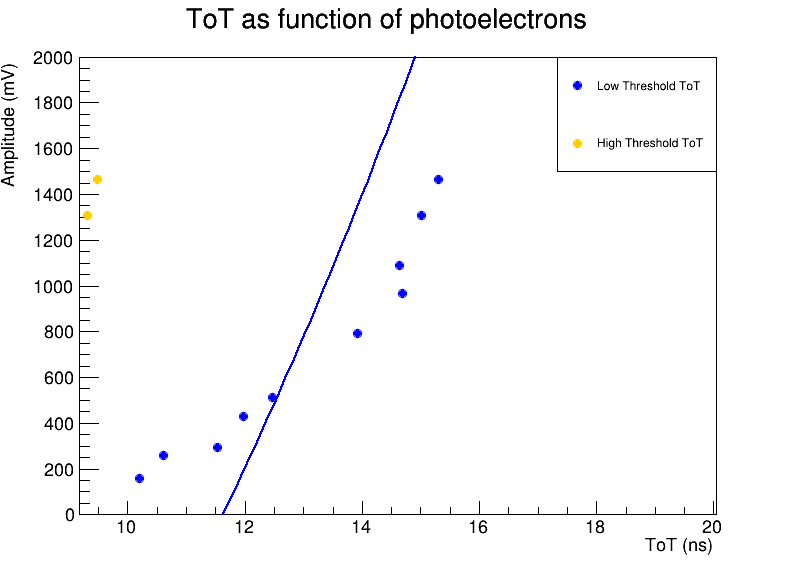
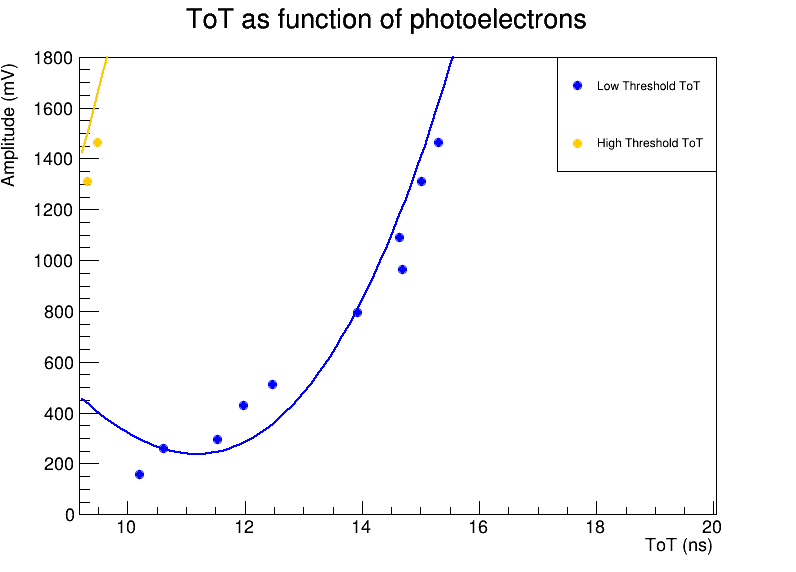
new commit

diff --git a/time_distribution_graph.C b/time_distribution_graph.C
@@ -255,7 +255,7 @@ int main() {
     gr_low->SetTitle("ToT as function of photoelectrons ;ToT (ns);Amplitude (mV)");
     gr_low->SetMarkerStyle(20); // Imposta lo stile dei punti
     gr_low->SetMarkerColor(kBlue);
-    gr_low->GetYaxis()->SetRangeUser(0,2000);
+    gr_low->GetYaxis()->SetRangeUser(0,1800);
     gr_low->GetXaxis()->SetRangeUser(0, 20);
     gr_low->Draw("AP");
 
@@ -271,8 +271,8 @@ int main() {
     legend->Draw();
 
     // Esegui il fitting dei dati
-    TF1 *fit_low = new TF1("fit_low", "[0]+[1]*x**2", 0, 20); // Fitting con un polinomio di secondo grado
-    TF1 *fit_high = new TF1("fit_high"," [0]+[1]*x**2", 0, 20);
+    TF1 *fit_low = new TF1("fit_low", "[0]+[1]*x**2+[3]*x**3", 0, 20); // Fitting con un polinomio di secondo grado
+    TF1 *fit_high = new TF1("fit_high"," [0]+[1]*x**2+[3]*x**3", 0, 20);
 
     gr_low->Fit(fit_low, "R");
     gr_high->Fit(fit_high, "R");
